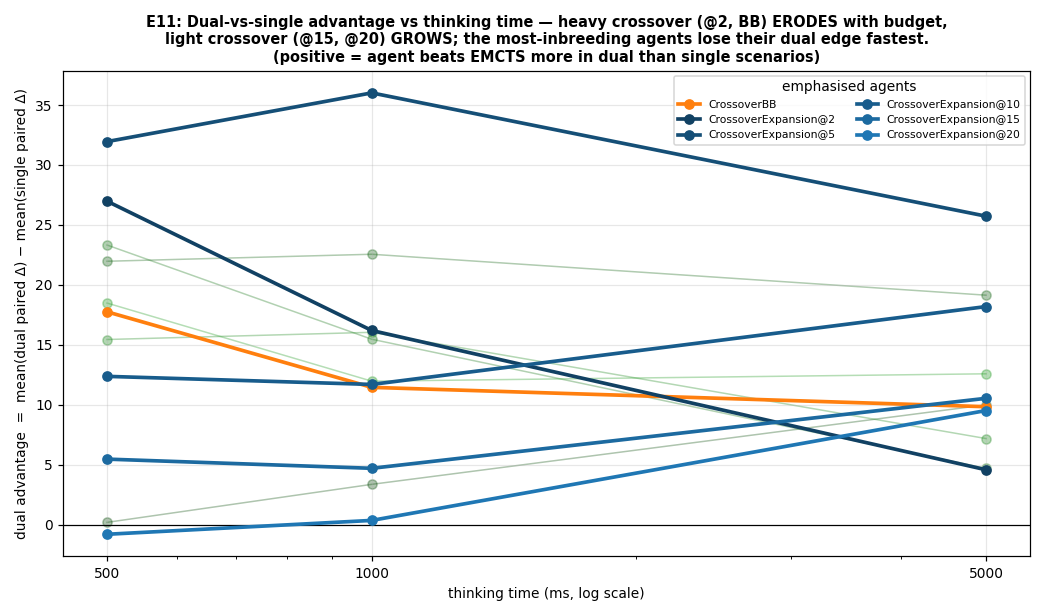
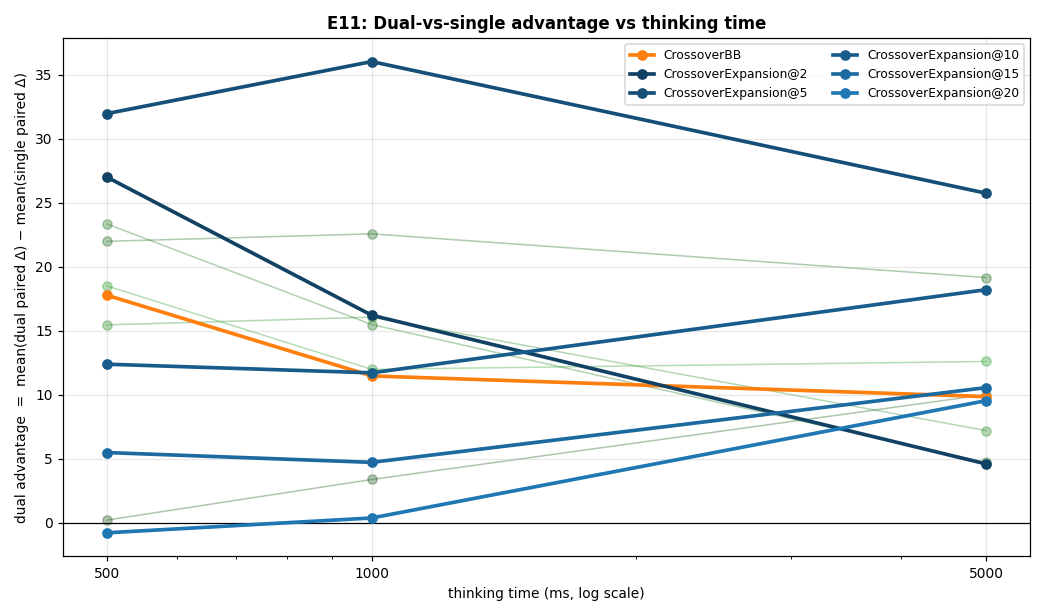
v4 analysis: submission-readiness polish for E-series figures
Stripped pedagogical/interpretive cruft from titles and axis labels
across E1-E11 + E4. The figures now stand on their own; interpretation
belongs in RESULTS_V4.md / thesis prose, not embedded in the image.

Specifically:
- E1 title: drop "Bars right of zero beat EMCTS"
- E3 ylabel: drop "(positive = agent beats EMCTS on same scenarios)";
  panel titles "500 ms thinking time" -> "500 ms"; suptitle tightened
- E4 title: "earlier (greener) = faster to peak"
  -> "burn phase at 95% of final gain"
- E5 ylabels: drop the parenthetical second lines on all three panels;
  suptitle: drop "clarifies the NodesEvaluated/Turn chart..." tail
- E6 title: drop "Dotted lines = ..."; remove the per-source tertile
  boundary lines (their context can't live on the figure)
- E7 title: per user request, exactly
  "BF-tertile x source heatmap - paired delta vs EMCTS
   (averaged over ms and visits)";
  drop "~17 scenarios/cell" from xlabel; drop "(n=17)" from
  xticklabels (uniform across cells, so repetitive)
- E8 title: drop "Parallel lines => ..." pedagogical tail; ylabel
  "paired delta vs EMCTS (avg over visits & ms)" -> "paired delta vs EMCTS"
- E9 panel A title: collapse three lines to "A. Unique-sequence
  fraction (all configs)"; ylabel: drop formula in parens
- E9 panel B title: collapse two lines to "B. Unique sequences per
  turn (Expansion family)"
- E9 suptitle: "Crossover inbreeding - diversity collapse as the
  per-turn budget grows" -> "Diversity of evaluated sequences vs
[…]

diff --git a/Tribes-master/analysis/analyze_v4_full.py b/Tribes-master/analysis/analyze_v4_full.py
@@ -408,7 +408,7 @@ def extra_paired_delta_with_ci(turn_df):
         ax.axvline(0, color='black', lw=0.8)
         ax.set_title(f'{key}' + (' ms' if key != 'avg' else ''))
         ax.set_xlabel('paired Δ vs EMCTS (FinalSequenceValue, ±95% CI)')
-    fig.suptitle('E1: Paired Δ vs EMCTS (same scenario × visit, with 95% CI). Bars right of zero beat EMCTS.',
+    fig.suptitle('E1: Paired Δ vs EMCTS (same scenario × visit pair, ±95% CI)',
                  fontweight='bold')
     fig.tight_layout(); fig.savefig(FIGS / 'E1_paired_delta_with_ci.png'); plt.close(fig)
     # table
@@ -491,11 +491,10 @@ def extra_single_vs_dual(turn_df, portfolio):
         ax.bar(x + 0.2, d.values, 0.4, color='#e31a1c', label='dual-player scenarios (n=50)')
         ax.axhline(0, color='black', lw=0.8)
         ax.set_xticks(x); ax.set_xticklabels(configs_present, rotation=60, ha='right', fontsize=7)
-        ax.set_title(f'{ms} ms thinking time')
-        ax.set_ylabel('mean FinalSequenceValue advantage over EMCTS\n(positive = agent beats EMCTS on same scenarios)')
+        ax.set_title(f'{ms} ms')
+        ax.set_ylabel('mean FinalSequenceValue advantage over EMCTS')
     axes[0].legend(fontsize=8, loc='lower left')
-    fig.suptitle('E3: Single-player vs dual-player portfolio split — paired advantage over EMCTS '
-                 '(same scenario × visit pairs)',
+    fig.suptitle('E3: Single-player vs dual-player portfolio split — paired Δ vs EMCTS',
                  fontweight='bold')
     fig.tight_layout(); fig.savefig(FIGS / 'E3_single_vs_dual.png'); plt.close(fig)
 
@@ -559,18 +558,11 @@ def extra_branching_source_diagnostics(turn_df, portfolio):
             edgecolor='black', linewidth=0.4)
     ax.axvline(s_bf.median(), color='#1f78b4', linestyle='--', lw=1.5)
     ax.axvline(d_bf.median(), color='#e31a1c', linestyle='--', lw=1.5)
-    # Per-source tertile boundaries (the 2 internal cuts each) in each source's colour — these are
-    # the columns used in E7. Shows how differently the two sources are sliced.
-    for e in tier_edges['single'][1:-1]:
-        ax.axvline(e, color='#1f78b4', lw=1.0, ls=':', alpha=0.9)
-    for e in tier_edges['dual'][1:-1]:
-        ax.axvline(e, color='#e31a1c', lw=1.0, ls=':', alpha=0.9)
     ax.set_xlabel('Branching factor (per scenario)')
     ax.set_ylabel('scenario count')
     ax.legend(fontsize=9, loc='upper right')
-    ax.set_title('E6: Branching-factor distribution per source. Dotted lines = per-source BF tertile '
-                 'boundaries used in E7 (blue = single, red = dual).',
-                 fontweight='bold', fontsize=9.5)
+    ax.set_title('E6: Branching-factor distribution per source',
+                 fontweight='bold', fontsize=10)
     fig.tight_layout(); fig.savefig(FIGS / 'E6_bf_dist_per_source.png'); plt.close(fig)
     # Mann-Whitney for "are the two distributions different?"
     try:
@@ -608,22 +600,20 @@ def extra_branching_source_diagnostics(turn_df, portfolio):
                                      ['single', 'dual'], ['single-player', 'dual-player']):
         im = ax.imshow(pivot.values, cmap='RdBu_r', vmin=-vmax, vmax=vmax, aspect='auto')
         # ^ RdBu_r: red = positive (beats EMCTS), blue = negative (loses to EMCTS)
-        edges, cnts = tier_edges[src], tier_counts[src]
+        edges = tier_edges[src]
         ax.set_xticks(range(len(TIER_LABELS))); ax.set_xticklabels(
-            [f'{TIER_LABELS[i]}\n{edges[i]:.0f}–{edges[i+1]:.0f}\n(n={int(cnts.iloc[i])})'
+            [f'{TIER_LABELS[i]}\n{edges[i]:.0f}–{edges[i+1]:.0f}'
              for i in range(len(TIER_LABELS))], fontsize=8)
         ax.set_yticks(range(len(configs))); ax.set_yticklabels(configs, fontsize=8)
-        ax.set_xlabel(f"{label}'s own BF range (~{int(cnts.iloc[0])} scenarios/cell)")
+        ax.set_xlabel('Branching factor')
         ax.set_title(f'{label} scenarios')
         for (i, k), v in np.ndenumerate(pivot.values):
             if np.isfinite(v):
                 ax.text(k, i, f'{v:+.0f}', ha='center', va='center', fontsize=8,
                         color='white' if abs(v) > vmax * 0.55 else 'black')
         fig.colorbar(im, ax=ax, shrink=0.85).set_label('paired Δ vs EMCTS')
-    fig.suptitle('E7: BF-tertile × source heatmap — paired Δ vs EMCTS (averaged over ms and visits). '
-                 'Bins are per-source (~17 scenarios/cell), so columns reflect each source\'s OWN BF '
-                 'range (labelled), not a shared scale.',
-                 fontweight='bold', fontsize=9.5)
+    fig.suptitle('E7: BF-tertile × source heatmap — paired Δ vs EMCTS (averaged over ms and visits)',
+                 fontweight='bold')
     fig.tight_layout(); fig.savefig(FIGS / 'E7_bf_tier_source_heatmap.png'); plt.close(fig)
     pivot_single.round(2).to_csv(TABLES / 'E7_bf_tier_single.csv')
     pivot_dual.round(2).to_csv(TABLES / 'E7_bf_tier_dual.csv')
@@ -652,12 +642,11 @@ def extra_branching_source_diagnostics(turn_df, portfolio):
                         bbox=dict(boxstyle='round,pad=0.2', fc='white', ec='none', alpha=0.85))
         ax.axhline(0, color='black', lw=0.6, linestyle=':')
         ax.set_title(cfg, fontsize=10, color=COLORS.get(cfg, 'black'), fontweight='bold')
-        ax.set_xlabel('Branching factor (per scenario)')
-        ax.set_ylabel('paired Δ vs EMCTS (avg over visits & ms)')
+        ax.set_xlabel('Branching factor')
+        ax.set_ylabel('paired Δ vs EMCTS')
         ax.legend(fontsize=8, loc='lower right')
-    fig.suptitle('E8: Branching factor vs paired Δ — per-source regression lines, four representative agents. '
-                 'Parallel lines ⇒ source effect independent of BF; converging lines ⇒ BF moderates source.',
-                 fontweight='bold', fontsize=10)
+    fig.suptitle('E8: Branching factor vs paired Δ vs EMCTS — per-source regression lines',
+                 fontweight='bold')
     fig.tight_layout(); fig.savefig(FIGS / 'E8_bf_source_regression.png'); plt.close(fig)
 
     # ----------------------------------------------------- ANCOVA: source effect, controlling for BF ----
@@ -739,9 +728,9 @@ def extra_search_breadth_vs_cost(turn_df):
     t.to_csv(TABLES / 'E5_search_breadth_vs_cost.csv', index=False)
     fig, axes = plt.subplots(1, 3, figsize=(15, 4.5), squeeze=False)
     axes = axes[0]
-    metrics = [('evals_per_turn', 'eval() calls per turn\n(= MCTS iterations)'),
-               ('fmCalls_per_turn', 'forward-model calls per turn\n(actual compute budget used)'),
-               ('fmCalls_per_eval', 'FM calls per eval\n(cost per iteration — lower = cheaper iter)')]
+    metrics = [('evals_per_turn',   'eval() calls per turn'),
+               ('fmCalls_per_turn', 'forward-model calls per turn'),
+               ('fmCalls_per_eval', 'FM calls per eval')]
     cfgs_present = [c for c in ORDER if c in t.Config.unique()]
     x = np.arange(len(cfgs_present))
     for ax, (col, ylab) in zip(axes, metrics):
@@ -750,9 +739,7 @@ def extra_search_breadth_vs_cost(turn_df):
             ax.plot(x, sub[col].values, marker='o', label=f'{ms} ms', lw=1.5)
         ax.set_xticks(x); ax.set_xticklabels(cfgs_present, rotation=60, ha='right', fontsize=7)
         ax.set_ylabel(ylab); ax.legend(fontsize=8)
-    fig.suptitle('E5: Per-iteration cost decomposition (clarifies the NodesEvaluated/Turn chart). '
-                 'Cheaper iterations → more iterations in the same wall-clock budget.',
-                 fontweight='bold', fontsize=10)
+    fig.suptitle('E5: Per-iteration cost decomposition', fontweight='bold')
     fig.tight_layout(); fig.savefig(FIGS / 'E5_search_breadth_vs_cost.png',
                                      bbox_inches='tight'); plt.close(fig)
 
@@ -790,7 +777,7 @@ def extra_convergence_speed(df_burn):
             ax.text(j, i, int(v), ha='center', va='center',
                     color='white' if v < 6 else 'black', fontsize=9)
     fig.colorbar(im, ax=ax).set_label('burn phase at which 95% of final gain is reached')
-    ax.set_title('E4: Convergence speed — earlier (greener) = faster to peak', fontweight='bold')
+    ax.set_title('E4: Convergence speed — burn phase at 95% of final gain', fontweight='bold')
     fig.tight_layout(); fig.savefig(FIGS / 'E4_convergence_speed.png'); plt.close(fig)
 
 
@@ -847,11 +834,8 @@ def extra_inbreeding(turn_df):
         axA.plot(MS_LEVELS, ys, marker='o', color=COLORS[cfg], lw=1.8, label=cfg)
     axA.set_xscale('log'); axA.set_xticks(MS_LEVELS); axA.set_xticklabels([str(m) for m in MS_LEVELS])
     axA.set_xlabel('thinking time (ms, log scale)')
-    axA.set_ylabel('unique-sequence fraction  (UniqueSequences / NodesEvaluated)')
-    axA.set_title('A. Fraction of evaluations that are NEW\n'
-                  'Expansion (blues): falls with budget = main-loop inbreeding.\n'
-                  'BB/Combo (orange/green): rises = fixed tournaments diluted (artifact).',
-                  fontsize=8.5)
+    axA.set_ylabel('unique-sequence fraction')
+    axA.set_title('A. Unique-sequence fraction (all configs)', fontsize=10)
     axA.legend(fontsize=6, ncol=2, loc='center left')
     # Panel B — absolute unique sequences/turn, EMCTS vs Expansion family: the crossover point.
     axB = axes[1]
@@ -863,12 +847,9 @@ def extra_inbreeding(turn_df):
     axB.set_xscale('log'); axB.set_xticks(MS_LEVELS); axB.set_xticklabels([str(m) for m in MS_LEVELS])
     axB.set_xlabel('thinking time (ms, log scale)')
     axB.set_ylabel('unique sequences found per turn')
-    axB.set_title('B. New sequences per turn (Expansion family)\n'
-                  'heavy crossover (@2) leads at 500 ms, mutation (EMCTS) overtakes by 5000 ms',
-                  fontsize=8.5)
+    axB.set_title('B. Unique sequences per turn (Expansion family)', fontsize=10)
     axB.legend(fontsize=7, loc='upper left')
-    fig.suptitle('E9: Crossover inbreeding — diversity collapse as the per-turn budget grows',
-                 fontweight='bold')
+    fig.suptitle('E9: Diversity of evaluated sequences vs thinking time', fontweight='bold')
     fig.tight_layout(); fig.savefig(FIGS / 'E9_inbreeding.png'); plt.close(fig)
     print('\n  E9 unique-sequence fraction (config × ms):')
     print(frac.round(3).to_string())
@@ -908,9 +889,8 @@ def extra_expansion_bf_time(turn_df, portfolio):
             if row == 1: ax.set_xlabel('branching factor')
             ax.legend(fontsize=6.5, loc='upper right')
     axes[0][0].set_ylim(-60, 60)  # clip to the central bulk so slope lines stay readable
-    fig.suptitle('E10: CrossoverExpansion — branching factor × source × thinking time. '
-                 'Lines flatten as budget grows (BF matters less); single slopes negative, dual flat/positive.',
-                 fontweight='bold', fontsize=10)
+    fig.suptitle('E10: CrossoverExpansion — branching factor × source × thinking time',
+                 fontweight='bold')
     fig.tight_layout(); fig.savefig(FIGS / 'E10_expansion_bf_source_time.png'); plt.close(fig)
 
 
@@ -942,11 +922,8 @@ def extra_source_effect_vs_time(turn_df, portfolio):
     ax.set_xscale('log'); ax.set_xticks(MS_LEVELS); ax.set_xticklabels([str(m) for m in MS_LEVELS])
     ax.set_xlabel('thinking time (ms, log scale)')
     ax.set_ylabel('dual advantage  =  mean(dual paired Δ) − mean(single paired Δ)')
-    ax.set_title('E11: Dual-vs-single advantage vs thinking time — heavy crossover (@2, BB) ERODES with '
-                 'budget,\nlight crossover (@15, @20) GROWS; the most-inbreeding agents lose their dual '
-                 'edge fastest.\n(positive = agent beats EMCTS more in dual than single scenarios)',
-                 fontweight='bold', fontsize=9.5)
-    ax.legend(fontsize=7, ncol=2, title='emphasised agents')
+    ax.set_title('E11: Dual-vs-single advantage vs thinking time', fontweight='bold')
+    ax.legend(fontsize=8, ncol=2)
     fig.tight_layout(); fig.savefig(FIGS / 'E11_source_advantage_vs_time.png'); plt.close(fig)
     print('\n  E11 dual-minus-single advantage by ms (positive = stronger in dual):')
     print(t.pivot(index='Config', columns='ms', values='dual_minus_single')
